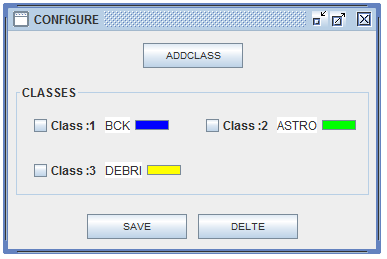
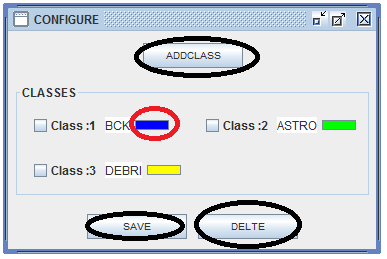
Color
Color

diff --git a/index.html b/index.html
@@ -36,8 +36,8 @@ Mentor: <a href="dimiterpp@gmail.com">Dimiter Prodanov</a><br>
 <p>ImageJ is an open source Java based image processing program extensively used in life sciences. It is designed with an open architecture that allows to create any user written Plugins. Our project aims to redesign the existing Trainable Weka Segmentation (TWS)
 of ImageJ. The idea is to make it generic and user friendly so that we can include the most significant state of the art
 like filters and machine learning frameworks like active learning, multi-instance learning designed by third party in a robust manner.</p>
-<h3>
-<a id="Session-Screen" class="anchor" href="#Session-Screen" aria-hidden="true"><span class="octicon octicon-link"></span></a>Session Screen</h3>
+<h1>
+<a id="Session-Screen" class="anchor" href="#Session-Screen" aria-hidden="true"><span class="octicon octicon-link"></span></a>Session Screen</h1>
 <p>Session is a provision for storing project data in the session file. It save the state of the system. First image illustrates the window for Session Screen. Session screen will load the existing(Previous) session of the project. 
 It provide you the option to load the filter, Feature and learning Data. The "Choose Session File" button is used for loading session file from the local file system. The whole meta-data of the project will be saved in the same directory as selected by the user.
 The session file must be in JSON format.The second image shows the window for browsing session file on the local file system:</p>
@@ -68,8 +68,8 @@ The session file must be in JSON format.The second image shows the window for br
 
 </code></pre>
 <p>As can be seen from the "ObjectMapper" in the code, the session file was mapped using the Jackson API, version 2.3.1. </p>
-<h3>
-<a id="Filter-Framework" class="anchor" href="#Filter-Framework" aria-hidden="true"><span class="octicon octicon-link"></span></a>Filter Framework</h3>
+<h1>
+<a id="Filter-Framework" class="anchor" href="#Filter-Framework" aria-hidden="true"><span class="octicon octicon-link"></span></a>Filter Framework</h1>
 <p>Filter Framework is responsible for automatic loading of Filters.It automatically finds all JAR 
   files in the path and first level of subdirectories and those have implemented "IFilter" interface. 
  </p>
@@ -77,14 +77,14 @@ The session file must be in JSON format.The second image shows the window for br
 <ul>
 <li>The right black marked box is used to enable the unselected filters. User need to double click on filter name to enable it </li>
 <li>The Settings for each filter is provided in the centre along with the shape of filter </li>
-<li>Filters process is started using the "Compute" button.</li>
-<li>Filters Meta Data is dumped using the "Save" button.</li>
+<li>Filters process is started using the "COMPUTE" button.</li>
+<li>Filters Meta Data is dumped using the "SAVE" button.</li>
 <li>The "View" button is used to view the filters result for each image slice. </li>
 <li>The "Default" button is used to set the set default settings for the filter as provided by the developers .</li>
 </ul>
 
-<h3>
-<a id="Feature-Screen" class="anchor" href="#Feature-Screen" aria-hidden="true"><span class="octicon octicon-link"></span></a>Feature Screen</h3>
+<h1>
+<a id="Feature-Screen" class="anchor" href="#Feature-Screen" aria-hidden="true"><span class="octicon octicon-link"></span></a>Feature Screen</h1>
 <p>Feature Screen of the active segmentation is very similar to the TWS(Trainable Weka Segmentation). It will start with two classes i.e 
 Binary Classification   
  </p>
@@ -97,15 +97,21 @@ Binary Classification
 The user can delete the region of interest by double click on particular ROI.</li>
 <li>As seen in "Box 2 in Feature Screen", It will show all the ROI's belong to class.
 The user can delete the region of interest by double click on particular ROI.</li>
-<li>Meta Data is dumped using the "Save" button.</li>
-<li>Learning is started using the "Compute" button. Once the learning is completed, The "overlay image" will be generated</li>
-<li>Meta Data is dumped using the "Save" button.</li>
-<li>The "toggle" button is used to switch between "overlay image" and "original image". </li>
+<li>Meta Data is dumped using the "SAVE" button.</li>
+<li>Learning is started using the "COMPUTE" button. Once the learning is completed, The "overlay image" will be generated</li>
+<li>Meta Data is dumped using the "SAVE" button.</li>
+<li>The "TOGGLE" button is used to switch between "overlay image" and "original image". </li>
 </ul>
 
-<h3>
-<a id="Class-Screen" class="anchor" href="#Class-Screen" aria-hidden="true"><span class="octicon octicon-link"></span></a>Class Screen</h3>
-<p><img src="images/ClassScreen.png"></p>
+<h1>
+<a id="Configure-Screen" class="anchor" href="#Configure-Screen" aria-hidden="true"><span class="octicon octicon-link"></span></a>Configure Screen</h1>
+Configure screen is used to configure classes. The user can add,update or delete classes. The default classes will be two.
+<ul>
+<li>The user can add new class using "ADD CLASS" button.</li>
+<li>In order to delete the class,the user have to select the class using checkbox and then click "DELETE" button. </li>
+<li>The user can change the color of the class using "COLOR" button.</li>
+</ul>
+<p><img src="images/ClassScreen.png">&nbsp;&nbsp;&nbsp;<img src="images/COLOR.png"></p>
 <h1>
 <a id="open-bugs" class="anchor" href="#open-bugs" aria-hidden="true"><span class="octicon octicon-link"></span></a>OPEN BUGS</h1>
 
